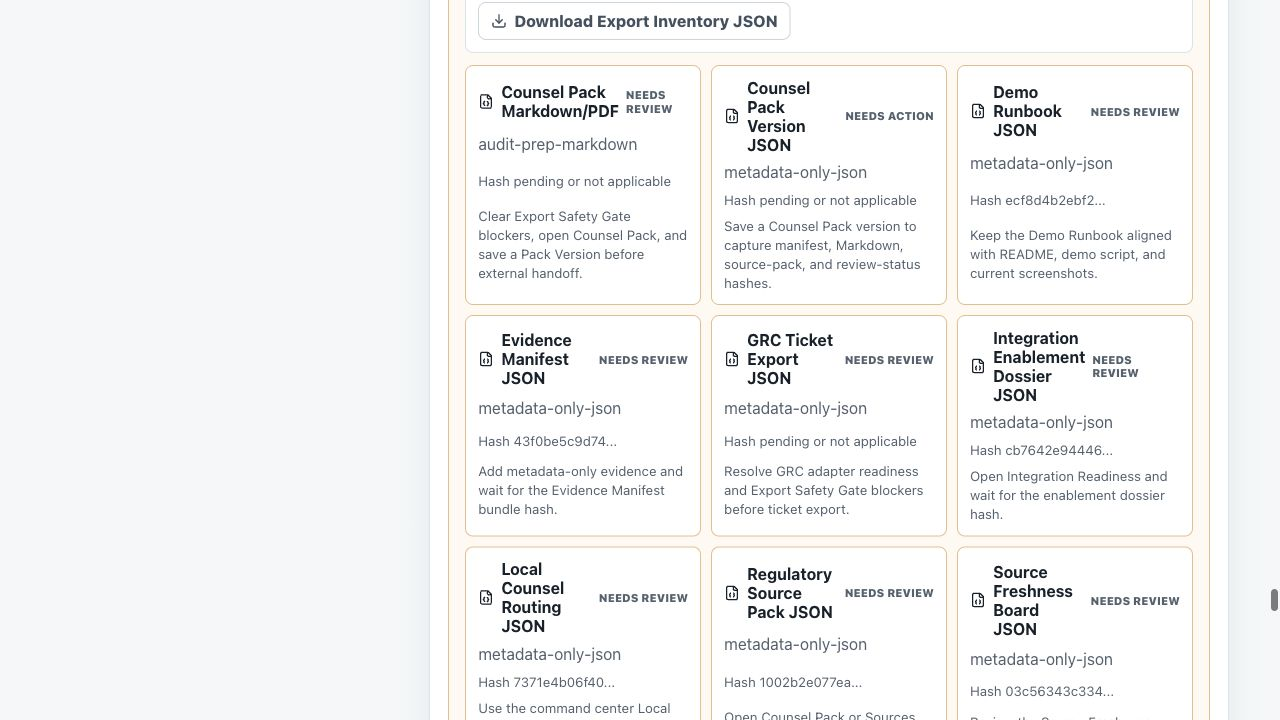
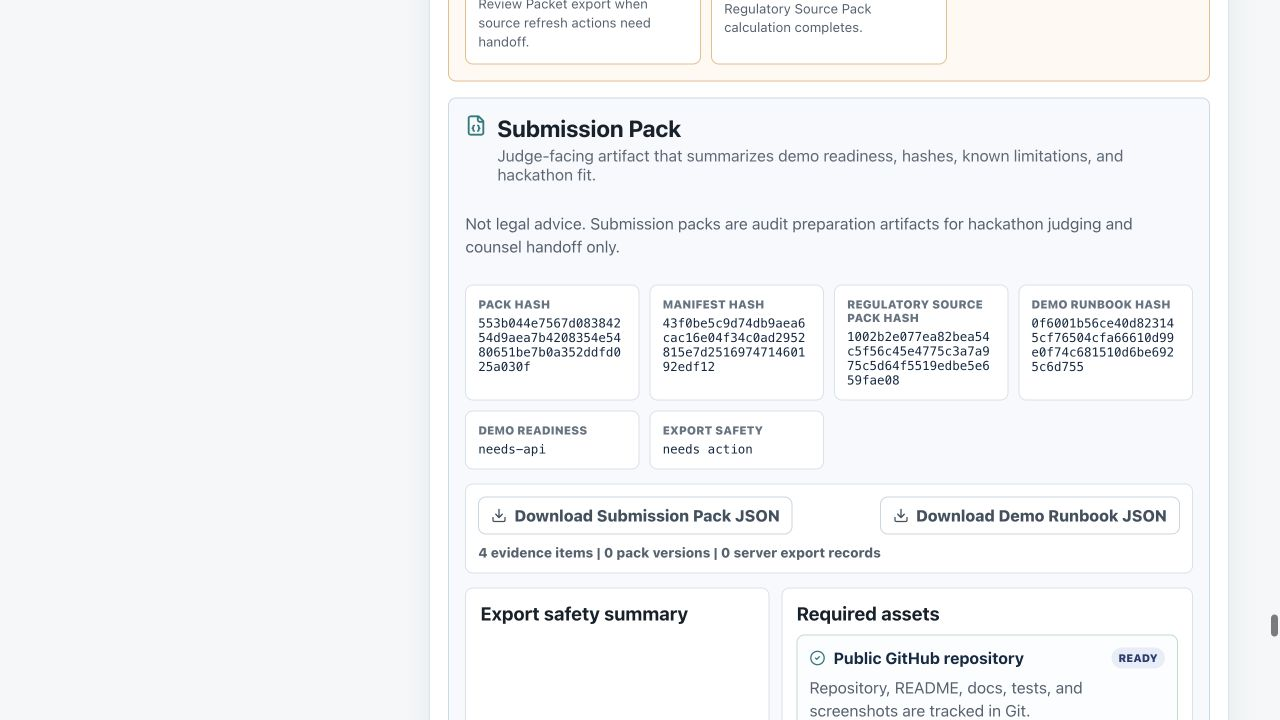
feat: export demo runbook from sources

Changed region(s): [[0.3438, 0.0, 0.9375, 1.0], [0.8438, 0.825, 0.9375, 0.8556], [0.9688, 0.825, 1.0, 0.8861]]

diff --git a/src/App.test.tsx b/src/App.test.tsx
@@ -3003,6 +3003,61 @@ describe("App", () => {
     }
   });
 
+  it("downloads the Demo Runbook JSON from the Sources handoff", async () => {
+    const originalCreateObjectUrl = URL.createObjectURL;
+    const originalRevokeObjectUrl = URL.revokeObjectURL;
+    const createObjectUrl = vi.fn(() => "blob:sources-demo-runbook");
+    const revokeObjectUrl = vi.fn();
+    const click = vi.spyOn(HTMLAnchorElement.prototype, "click").mockImplementation(() => undefined);
+    const capturedBlobs: Blob[] = [];
+    URL.createObjectURL = vi.fn((blob: Blob | MediaSource) => {
+      if (blob instanceof Blob) {
+        capturedBlobs.push(blob);
+      }
+      return createObjectUrl();
+    });
+    URL.revokeObjectURL = revokeObjectUrl;
+
+    try {
+      render(<App />);
+
+      fireEvent.click(screen.getByRole("button", { name: /Sources/i }));
+
+      const submissionPack = await screen.findByRole("region", { name: /Submission Pack/i });
+      await waitFor(() => {
+        expect(within(submissionPack).getByText(/Demo Runbook hash/i)).toBeInTheDocument();
+      });
+      const downloadButton = await within(submissionPack).findByRole("button", { name: /Download Demo Runbook JSON/i });
+      await waitFor(() => expect(downloadButton).toBeEnabled());
+      fireEvent.click(downloadButton);
+
+      expect(click).toHaveBeenCalledTimes(1);
+      expect(revokeObjectUrl).toHaveBeenCalledWith("blob:sources-demo-runbook");
+      const payloadBlob = capturedBlobs[0];
+      expect(payloadBlob).toBeInstanceOf(Blob);
+      if (!payloadBlob) {
+        throw new Error("Expected Demo Runbook JSON blob to be created from Sources.");
+      }
+      const payload = await readAppBlobText(payloadBlob);
+      const parsed = JSON.parse(payload);
+
+      expect(parsed).toEqual(
+        expect.objectContaining({
+          runbookVersion: "lexproof-demo-runbook-v1",
+          apiPreflightStatus: "not-checked",
+          notLegalAdviceBoundary: "Not legal advice. Demo runbooks are audit preparation demo metadata only."
+        })
+      );
+      expect(parsed.runbookHash).toMatch(/^[a-f0-9]{64}$/);
+      expect(payload).toContain("Counsel Pack -> Sources");
+      expect(payload).not.toMatch(/\bsk-live\b|private key 0x|raw KYC|legal opinion|final legal decision/i);
+    } finally {
+      URL.createObjectURL = originalCreateObjectUrl;
+      URL.revokeObjectURL = originalRevokeObjectUrl;
+      click.mockRestore();
+    }
+  });
+
   it("downloads an Export Safety Inventory that blocks unsafe handoff without leaking secrets", async () => {
     const originalCreateObjectUrl = URL.createObjectURL;
     const originalRevokeObjectUrl = URL.revokeObjectURL;

diff --git a/src/components/SubmissionPackPanel.tsx b/src/components/SubmissionPackPanel.tsx
@@ -1,5 +1,6 @@
 import { CheckCircle2, Download, FileJson, TriangleAlert } from "lucide-react";
 import { SectionHeader } from "./AuditWizard";
+import { downloadDemoRunbookJson, type DemoRunbook } from "../lib/demoRunbook";
 import {
   exportSubmissionPackJson,
   type SubmissionExportSafetyStatus,
@@ -9,9 +10,10 @@ import {
 
 type SubmissionPackPanelProps = {
   pack: SubmissionPack | null;
+  demoRunbook: DemoRunbook | null;
 };
 
-export function SubmissionPackPanel({ pack }: SubmissionPackPanelProps) {
+export function SubmissionPackPanel({ pack, demoRunbook }: SubmissionPackPanelProps) {
   return (
     <section className="submission-pack-panel" role="region" aria-label="Submission Pack">
       <SectionHeader
@@ -41,6 +43,19 @@ export function SubmissionPackPanel({ pack }: SubmissionPackPanelProps) {
             <button type="button" className="secondary" onClick={() => downloadSubmissionPackJson(pack)}>
               <Download size={16} aria-hidden="true" />
               Download Submission Pack JSON
+            </button>
+            <button
+              type="button"
+              className="secondary"
+              disabled={!demoRunbook}
+              onClick={() => {
+                if (demoRunbook) {
+                  downloadDemoRunbookJson(`${slug(pack.projectName)}-demo-runbook.json`, demoRunbook);
+                }
+              }}
+            >
+              <Download size={16} aria-hidden="true" />
+              Download Demo Runbook JSON
             </button>
             <span>
               {pack.evidenceItemCount} evidence items | {pack.counselPackVersionCount} pack versions |{" "}

diff --git a/src/App.tsx b/src/App.tsx
@@ -2102,7 +2102,12 @@ export default function App() {
             />
           ) : null}
           {activeTab === "sources" ? (
-            <SourcesPanel audit={audit} exportSafetyInventory={exportSafetyInventory} submissionPack={submissionPack} />
+            <SourcesPanel
+              audit={audit}
+              demoRunbook={demoRunbook}
+              exportSafetyInventory={exportSafetyInventory}
+              submissionPack={submissionPack}
+            />
           ) : null}
         </section>
       </main>
@@ -2170,10 +2175,12 @@ function RiskAuditPanel({
 
 function SourcesPanel({
   audit,
+  demoRunbook,
   exportSafetyInventory,
   submissionPack
 }: {
   audit: ReturnType<typeof analyzeAuditProfile>;
+  demoRunbook: DemoRunbook | null;
   exportSafetyInventory: ExportSafetyInventory | null;
   submissionPack: SubmissionPack | null;
 }) {
@@ -2194,7 +2201,7 @@ function SourcesPanel({
         <p>Submission package expects a public GitHub repository, README, demo video, and DoraHacks BUIDL entry.</p>
       </div>
       <ExportSafetyInventoryPanel inventory={exportSafetyInventory} />
-      <SubmissionPackPanel pack={submissionPack} />
+      <SubmissionPackPanel pack={submissionPack} demoRunbook={demoRunbook} />
     </section>
   );
 }

diff --git a/README.md b/README.md
@@ -86,7 +86,7 @@ Key evidence:
 - Counsel Handoff Checklist in Counsel Pack, with a stable checklist hash, export safety status, evidence manifest/source pack/submission pack readiness, review status, saved version state, server export-record state, and downloadable metadata-only JSON. Not legal advice.
 - Submission fit scorecard for BLI themes and required DoraHacks assets.
 - Submission Pack JSON from Sources with pack hash, manifest hash, Regulatory Source Pack hash, Demo Runbook hash, export safety summary, demo readiness, required submission assets, hackathon theme mapping, known limitations, and Not legal advice boundary.
-- Demo Runbook JSON from Judge Demo Readiness with clean-clone commands, scenario paths, screenshot references, API preflight status, limitations, and a stable runbook hash for hackathon judges. Not legal advice.
+- Demo Runbook JSON from Judge Demo Readiness and Sources with clean-clone commands, scenario paths, screenshot references, API preflight status, limitations, and a stable runbook hash for hackathon judges. Not legal advice.
 - Export Safety Inventory in Sources with a stable inventory hash, artifact readiness, Demo Runbook JSON, Source Freshness Board hash/status, data-boundary blockers, metadata-only JSON download, and an explicit handoff allowed/blocked status before counsel or judge artifacts leave the workspace.
 - Responsive React workbench with tabs for Audit Wizard, AI Review, Model Intake, Jurisdiction Checklist, Risk Audit, Evidence Ledger, Counsel Pack, and Sources.
 
@@ -346,7 +346,7 @@ The Counsel Handoff Checklist condenses Export Safety Inventory, Evidence Manife
 
 ![Counsel Handoff Checklist](docs/assets/screenshots/counsel-handoff-checklist.png)
 
-Sources now includes a generated Submission Pack JSON artifact for judges. It summarizes demo readiness, Demo Runbook hash, export safety summary, required assets, feature-to-theme mapping, known limitations, manifest hash, Regulatory Source Pack hash, and the Not legal advice boundary.
+Sources now includes generated Submission Pack JSON and Demo Runbook JSON artifacts for judges. The Submission Pack summarizes demo readiness, Demo Runbook hash, export safety summary, required assets, feature-to-theme mapping, known limitations, manifest hash, Regulatory Source Pack hash, and the Not legal advice boundary.
 
 ![Submission Pack artifact](docs/assets/screenshots/submission-pack.png)
 
@@ -372,7 +372,7 @@ The runnable judge path is documented in [docs/demo-script.md](docs/demo-script.
 6. Human Review return flow that moves linked evidence back to `requested` and records a downloadable review timeline.
 7. Secure Review Journey across Evidence Vault, Model Gateway, Model Gateway Evaluation, Human Review, audit log routes, and Audit Log Export.
 8. Counsel Pack template selection, Source Review Ledger API sync, Source Update Approval Queue preview, Counsel Handoff Checklist JSON, version save with Regulatory Source Pack hash, server export record creation, Markdown export, Manifest JSON, and simulated anchor receipt.
-9. Sources tab Export Safety Inventory and Submission Pack JSON exports with inventory/pack hashes, Demo Runbook hash, export safety summary, known limitations, demo readiness, and hackathon mapping.
+9. Sources tab Export Safety Inventory, Submission Pack JSON, and Demo Runbook JSON exports with inventory/pack/runbook hashes, export safety summary, known limitations, demo readiness, and hackathon mapping.
 
 Screenshots for the exact demo path:
 

diff --git a/docs/submission-pack.md b/docs/submission-pack.md
@@ -42,7 +42,7 @@ The Counsel Pack exports a Markdown audit-prep packet, Model Intake summary with
 
 ### Submission Pack Artifact
 
-The Sources tab generates a metadata-only Submission Pack JSON for judges. It carries the pack hash, manifest hash, Regulatory Source Pack hash, Demo Runbook hash, demo readiness status, required DoraHacks assets, feature-to-theme mapping, known limitations, and the Not legal advice boundary. It does not store raw KYC, credentials, raw evidence bytes, legal conclusions, or real chain-write claims.
+The Sources tab generates metadata-only Submission Pack JSON and Demo Runbook JSON for judges. The Submission Pack carries the pack hash, manifest hash, Regulatory Source Pack hash, Demo Runbook hash, demo readiness status, required DoraHacks assets, feature-to-theme mapping, known limitations, and the Not legal advice boundary. It does not store raw KYC, credentials, raw evidence bytes, legal conclusions, or real chain-write claims.
 
 ![Submission Pack artifact](assets/screenshots/submission-pack.png)
 
@@ -60,7 +60,7 @@ The Evidence Ledger records local evidence creation, template application, edits
 4. Open **Risk Audit** and point to source-linked trigger facts.
 5. Open **Evidence Ledger**, apply the tokenized yield/RWA evidence template, show the Evidence Audit Trail JSON export, and show the manifest bundle hash.
 6. Open **Counsel Pack** and show the Model Intake Summary, AI event hashes, Markdown download, Manifest JSON, and simulated anchor receipt.
-7. Open **Sources** and download **Submission Pack JSON** to show the judge-facing pack hash, Demo Runbook hash, known limitations, demo readiness, and hackathon mapping.
+7. Open **Sources** and download **Submission Pack JSON** plus **Demo Runbook JSON** to show the judge-facing pack hash, Demo Runbook hash, known limitations, demo readiness, and clean-clone path.
 
 ## Boundaries
 

diff --git a/docs/work-universe.md b/docs/work-universe.md
@@ -100,7 +100,7 @@ The repository already has:
 - Editable Evidence Ledger with review-stage statuses, rejected-record replacement requests, empty-state Evidence Intake Guidance, local file metadata hashing, evidence templates, audit trail JSON, deterministic Evidence Manifest, Evidence Vault control coverage summary, Evidence Vault Lineage Digest with stable digest hash and JSON download, simulated anchor receipt, Counsel Pack export templates, Export Safety Gate data-boundary blocker, Counsel Handoff Checklist with a stable checklist hash and JSON download, local Counsel Pack version history with manifest/Markdown/source-pack hashes and diff metadata, and Phase 2 server export records for the latest Pack Version.
 - Jurisdiction checklist and jurisdiction packs for initial US/EU/UK/Singapore/Switzerland/UAE/Brazil routing.
 - Demo script, screenshots, Demo Scenario Library launcher, Workspace Journey rail, Source Review Packet export, and integration tests for the full secure review journey, Counsel Pack template selection, version-history export path, server export-record path, command-center Regulatory Control Matrix export, Jurisdiction Readiness Digest export, and seeded judge paths.
-- Generated Submission Pack JSON in Sources with pack hash, manifest hash, Regulatory Source Pack hash, export safety summary, demo readiness, required assets, feature-to-theme mapping, known limitations, and Not legal advice boundary.
+- Generated Submission Pack JSON in Sources with pack hash, manifest hash, Regulatory Source Pack hash, Demo Runbook hash, export safety summary, demo readiness, required assets, feature-to-theme mapping, known limitations, and Not legal advice boundary.
 
 Future work should extend these capabilities, not create parallel demo-only paths.
 
@@ -497,7 +497,7 @@ Implemented first slice:
 
 - Demo Scenario Library in `src/data/demoScenarios.ts`, `src/lib/demoScenarioLibrary.ts`, and `DemoScenarioLibrary`: maps realistic synthetic sample profiles into short judge-ready routes, expected artifacts, focus tags, and recommended workbench tabs. The seeded set now includes RWA launch, DAO review, public-source review, AI legal workflow review, Brazil VASP source review, Singapore DPT custody review, and marketing claims review paths. The validation layer rejects unknown samples, missing Not legal advice boundaries, weak paths, empty artifacts, raw KYC, private-key, seed-phrase, and live-key demo text.
 - Submission Pack artifact in `src/lib/submissionPack.ts` and `SubmissionPackPanel`: generates a metadata-only judge packet with stable pack hash, manifest/source-pack/Demo Runbook hashes, export safety summary, demo readiness, required assets, hackathon mapping, known limitations, and JSON download.
-- Demo Runbook artifact in `src/lib/demoRunbook.ts` and `DemoReadinessPanel`: generates a metadata-only clean-clone runbook with scenario paths, screenshots, API preflight status, limitations, Not legal advice boundary, stable runbook hash, JSON download for hackathon judges, and Sources-level handoff tracking through Submission Pack and Export Safety Inventory.
+- Demo Runbook artifact in `src/lib/demoRunbook.ts`, `DemoReadinessPanel`, and `SubmissionPackPanel`: generates a metadata-only clean-clone runbook with scenario paths, screenshots, API preflight status, limitations, Not legal advice boundary, stable runbook hash, JSON download for hackathon judges from Project Workspace or Sources, and Sources-level handoff tracking through Submission Pack and Export Safety Inventory.
 
 Build:
 

diff --git a/docs/demo-script.md b/docs/demo-script.md
@@ -160,6 +160,7 @@ Before step 0, use **Judge Demo Readiness** in **Project Workspace**:
    - Click **Download Export Inventory JSON** to show the metadata-only redacted handoff inventory.
    - Show the generated **Submission Pack** with pack hash, manifest hash, Regulatory Source Pack hash, Demo Runbook hash, export safety summary, demo readiness, required assets, hackathon mapping, and known limitations.
    - Click **Download Submission Pack JSON** for the judge-facing metadata artifact.
+   - Click **Download Demo Runbook JSON** from the same Sources handoff area to show the clean-clone path is exportable without returning to Project Workspace.
    - Confirm the boundary: Not legal advice. Submission packs are audit preparation artifacts for hackathon judging and counsel handoff only.
    - Screenshot: `docs/assets/screenshots/export-safety-inventory.png`.
    - Screenshot: `docs/assets/screenshots/sources-demo-runbook-handoff.png`.